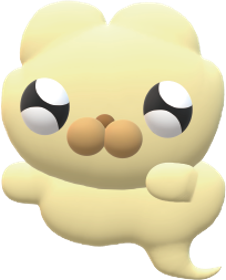
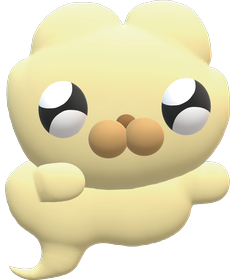
클라이언트 피드백 반영 (웹) — 캐릭터/달/투명도/GAME OVER/카피라이트
- 새 고해상 캐릭터 3종 교체(덕춘=옐로우/덕자=브라운/덕희=화이트), 소개문구 MBTI로(INFP/ENFP/ESTJ)
- 캐릭터가 달리는 방향(우측) 보도록 인게임 flipX + 캐릭터선택 미러
- 달을 초승달로 수정(깎는 원 색을 하늘색과 일치시켜 원반 아티팩트 제거)
- 배경 건물·장식 투명도 더 낮춤(soften 0.5→0.35, 건물 기본 알파↓)
- 공포모드 진입 시 화면 떨림(shake) 제거, 플래시만 유지
- ©nunussi 카피라이트 로고 인게임 우측하단 코너 표시(흰색 버전)
- GAME OVER: 배경 오버레이 불투명화(뒤 장식 안 비침)+코너 유령장식 제거, 폰트 더 굵게

diff --git a/src/game/scenes/GameScene.ts b/src/game/scenes/GameScene.ts
@@ -80,9 +80,9 @@ export class GameScene extends Phaser.Scene {
 
     // 건물 실루엣 (parallax 느린 레이어)
     this.buildings = [
-      this.add.image(80, GROUND_Y - 50, 'buildings').setAlpha(0.6),
-      this.add.image(350, GROUND_Y - 50, 'buildings').setAlpha(0.5),
-      this.add.image(620, GROUND_Y - 50, 'buildings').setAlpha(0.55),
+      this.add.image(80, GROUND_Y - 50, 'buildings').setAlpha(0.42),
+      this.add.image(350, GROUND_Y - 50, 'buildings').setAlpha(0.36),
+      this.add.image(620, GROUND_Y - 50, 'buildings').setAlpha(0.4),
     ];
 
     // 구름 (parallax 빠른 레이어)
@@ -134,6 +134,7 @@ export class GameScene extends Phaser.Scene {
     );
     this.player.setCollideWorldBounds(true);
     this.player.setDepth(10);
+    this.player.setFlipX(true); // 달리는 방향(우측)을 보도록
 
     // ── 지면 정적 바디 (두껍게 — 점프 후 빠른 낙하 시 얇은 바닥 관통 방지) ──
     const floorH = GAME_HEIGHT - GROUND_Y;
@@ -202,6 +203,15 @@ export class GameScene extends Phaser.Scene {
       fontFamily: '"Nanum Gothic", sans-serif', fontStyle: 'bold',
       stroke: '#1e1b4b', strokeThickness: 5,
     }).setOrigin(0.5).setDepth(30).setAlpha(0);
+
+    // ©nunussi 카피라이트 (우측 하단 코너)
+    if (this.textures.exists('copyright')) {
+      this.add.image(GAME_WIDTH - 10, GAME_HEIGHT - 8, 'copyright')
+        .setOrigin(1, 1)
+        .setScale(0.22)
+        .setAlpha(0.55)
+        .setDepth(20);
+    }
 
     // ── 입력 ──
     this.input.keyboard?.on('keydown-SPACE', this.doJump, this);
@@ -322,7 +332,7 @@ export class GameScene extends Phaser.Scene {
 
   // 배경/장식을 가볍게 디밍해 뒤로 물러나 보이게 (blur는 렉 유발 → 사용 안 함)
   private soften(obj: Phaser.GameObjects.Image) {
-    obj.setAlpha(obj.alpha * 0.5);
+    obj.setAlpha(obj.alpha * 0.35);
   }
 
   // ─── 충돌 ───
@@ -398,8 +408,7 @@ export class GameScene extends Phaser.Scene {
   private activateHardMode() {
     this.hardMode = true;
 
-    // 카메라 흔들림 + 오렌지 플래시
-    this.cameras.main.shake(500, 0.02);
+    // 보라 플래시만 (화면 떨림 제거 — 피드백 반영)
     this.cameras.main.flash(600, 76, 29, 149);
 
     // 🔥 하드모드 알림 텍스트

diff --git a/src/game/scenes/GameOverScene.ts b/src/game/scenes/GameOverScene.ts
@@ -12,23 +12,8 @@ export class GameOverScene extends Phaser.Scene {
     const score = data?.score ?? 0;
     this.characterKey = data?.characterKey ?? 'deokchun';
 
-    // 배경 오버레이 (납량 어두운 보라)
-    this.add.rectangle(GAME_WIDTH / 2, GAME_HEIGHT / 2, GAME_WIDTH, GAME_HEIGHT, 0x0d0a2e, 0.82);
-
-    // 유령 배경 장식 (큰 반투명 유령들)
-    const ghostDeco = (x: number, y: number, scale: number, alpha: number) => {
-      const g = this.add.graphics();
-      g.fillStyle(0xc4b5fd, alpha);
-      g.fillCircle(0, -10, 20 * scale);
-      g.fillRect(-20 * scale, -10, 40 * scale, 24 * scale);
-      g.fillCircle(-12 * scale, 14 * scale, 10 * scale);
-      g.fillCircle(0, 14 * scale, 10 * scale);
-      g.fillCircle(12 * scale, 14 * scale, 10 * scale);
-      g.x = x; g.y = y;
-    };
-    ghostDeco(80, 80, 1.2, 0.08);
-    ghostDeco(680, 60, 1.5, 0.06);
-    ghostDeco(400, 320, 0.9, 0.07);
+    // 배경 오버레이 (불투명 — 뒤 게임 장식이 비치지 않도록, 피드백 반영)
+    this.add.rectangle(GAME_WIDTH / 2, GAME_HEIGHT / 2, GAME_WIDTH, GAME_HEIGHT, 0x0d0a2e, 1);
 
     // 으악 텍스트 (상단)
     this.add.text(GAME_WIDTH / 2, 26, '으악 ㅠㅠ 잡혔다!', {
@@ -43,12 +28,13 @@ export class GameOverScene extends Phaser.Scene {
       stroke: '#1e1b4b', strokeThickness: 4,
     }).setOrigin(0.5).setDepth(20);
 
-    // 빨간 분필 GAME OVER (2줄)
+    // 빨간 분필 GAME OVER (2줄) — 폰트 더 굵게 (동일 색 두꺼운 stroke로 글자 두께 증가)
     this.add.text(GAME_WIDTH / 2, 158, 'GAME\nOVER', {
-      fontSize: '50px', color: '#e4002b',
+      fontSize: '54px', color: '#ec0b30',
       fontFamily: "'Rock Salt', 'Nanum Gothic', cursive",
-      align: 'center', stroke: '#3b0a0a', strokeThickness: 6,
-      lineSpacing: -10,
+      align: 'center', stroke: '#ec0b30', strokeThickness: 11,
+      lineSpacing: -8,
+      shadow: { offsetX: 0, offsetY: 0, color: '#3b0a0a', blur: 6, stroke: true, fill: true },
     }).setOrigin(0.5).setDepth(20);
 
     // ── 나무 간판 버튼 (RETRY / RANK) ──

diff --git a/src/game/characters.ts b/src/game/characters.ts
@@ -14,34 +14,34 @@ export const CHARACTERS: CharacterDef[] = [
   {
     key: 'deokchun',
     name: '덕춘',
-    trait: '첫째 · 평화주의자',
+    trait: '첫째 · INFP',
     desc: '눕기를 좋아하고 평화와 사랑을 추구해요',
     emoji: '😌',
-    bodyColor: 0xfb923c,   // orange
-    earColor: 0xea580c,
-    cssColor: '#fb923c',
+    bodyColor: 0xfde68a,   // yellow
+    earColor: 0xf59e0b,
+    cssColor: '#d4a017',
     imageUrl: '/characters/deokchun.png',
   },
   {
     key: 'deokja',
     name: '덕자',
-    trait: '둘째 · 점쟁이',
+    trait: '둘째 · ENFP',
     desc: '얼굴의 점이 매력포인트! 노는 게 최고예요',
     emoji: '😏',
-    bodyColor: 0xc084fc,   // purple
-    earColor: 0xa855f7,
-    cssColor: '#c084fc',
+    bodyColor: 0xb5793f,   // brown
+    earColor: 0x8a5a2b,
+    cssColor: '#b5793f',
     imageUrl: '/characters/deokja.png',
   },
   {
     key: 'deokhee',
     name: '덕희',
-    trait: '막내 · 주먹파',
+    trait: '막내 · ESTJ',
     desc: '말보다 주먹! 막내의 반란이 시작돼요',
     emoji: '😤',
-    bodyColor: 0xf87171,   // red-pink
-    earColor: 0xef4444,
-    cssColor: '#f87171',
+    bodyColor: 0xe5e7eb,   // white
+    earColor: 0xcbd5e1,
+    cssColor: '#64748b',
     imageUrl: '/characters/deokhee.png',
   },
 ];

diff --git a/src/game/scenes/BootScene.ts b/src/game/scenes/BootScene.ts
@@ -23,6 +23,7 @@ export class BootScene extends Phaser.Scene {
     this.load.image('deco_bush2', '/assets/bush2.png');
     this.load.image('deco_candle', '/assets/candle.png');
     this.load.image('deco_candle2', '/assets/candle_lit.png');
+    this.load.image('copyright', '/copyright_white.png');     // ©nunussi 카피라이트
     this.load.on('loaderror', (file: { key: string }) => {
       this.loadErrors.add(file.key);
     });
@@ -44,11 +45,11 @@ export class BootScene extends Phaser.Scene {
       bgGfx.fillStyle(0xffffff, Math.random() * 0.5 + 0.4);
       bgGfx.fillCircle(sx, sy, r);
     });
-    // 달
+    // 달 (초승달) — 깎아내는 원 색을 이 높이의 하늘색과 일치시켜 원반 아티팩트 제거
     bgGfx.fillStyle(0xfef9c3, 1);
-    bgGfx.fillCircle(700, 55, 28);
-    bgGfx.fillStyle(0x1a0a4e, 1);
-    bgGfx.fillCircle(714, 47, 22);
+    bgGfx.fillCircle(702, 54, 27);
+    bgGfx.fillStyle(0x0d0a2e, 1);
+    bgGfx.fillCircle(716, 48, 26);
     bgGfx.generateTexture('sky', GAME_WIDTH, GROUND_Y);
     bgGfx.destroy();
 

diff --git a/src/components/game/CharacterSelect.tsx b/src/components/game/CharacterSelect.tsx
@@ -53,7 +53,7 @@ export default function CharacterSelect({ onSelect }: Props) {
                   <img
                     src={char.imageUrl}
                     alt={char.name}
-                    className="w-full h-full object-contain"
+                    className="w-full h-full object-contain -scale-x-100"
                     crossOrigin="anonymous"
                     onError={() => setImgErrors(prev => ({ ...prev, [char.key]: true }))}
                   />
